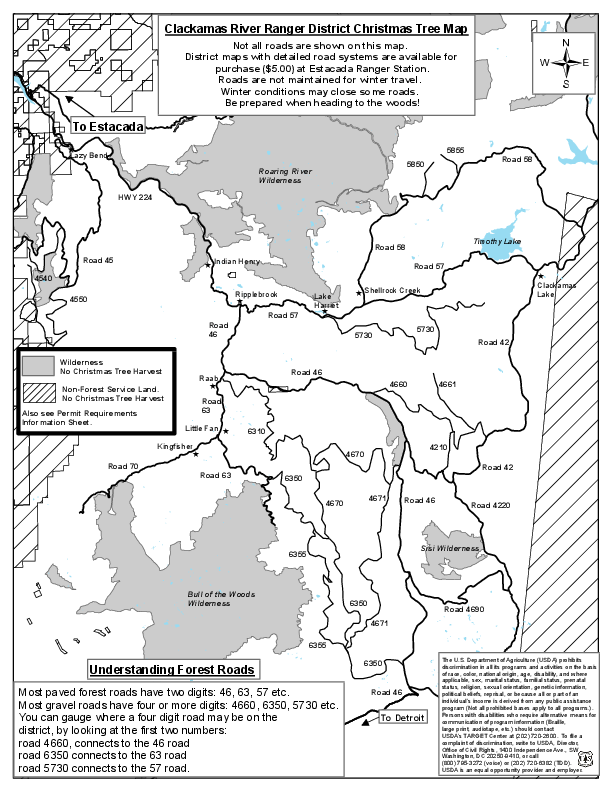
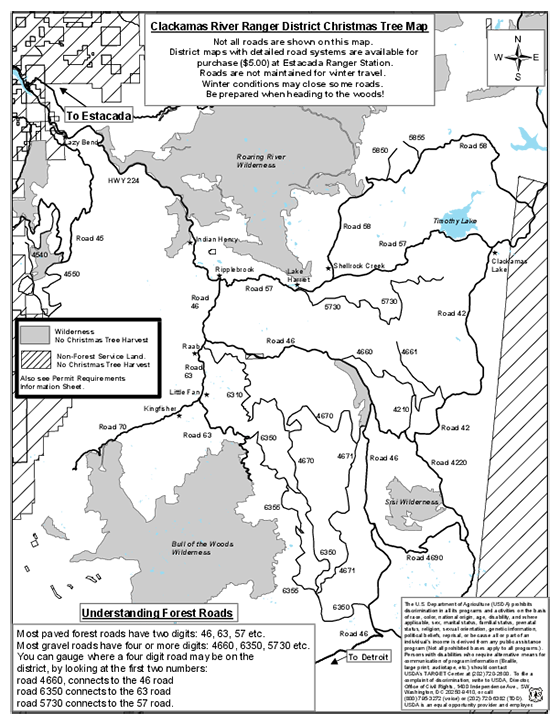
thumbnails of maps and species

diff --git a/frontend/src/app/trees/forests/tree-guidelines/tree-species/tree-species.component.html b/frontend/src/app/trees/forests/tree-guidelines/tree-species/tree-species.component.html
@@ -11,7 +11,7 @@
   <div class="usa-width-one-third">
     <figure>
       <a href="/assets/img/species/{{tree.id}}.jpg">
-        <img class="tree-img" src="/assets/img/species/{{tree.id}}.jpg" alt="{{ tree.name }}"/>
+        <img class="tree-img" src="/assets/img/species/{{tree.id}}-thumb.jpg" alt="{{ tree.name }}"/>
       </a>
       <figcaption>{{tree.name}} <span class="tree-species-credit">Photo by {{tree.photoCredits}}</span></figcaption>
     </figure>

diff --git a/frontend/src/assets/content/arp/tree-locations/allowed.md b/frontend/src/assets/content/arp/tree-locations/allowed.md
@@ -4,7 +4,7 @@ The Arapaho and Roosevelt National Forests are broken into five different geogra
 
 [Christmas tree map of **Red Feather Lakes Cutting Area** - Canyon Lakes Ranger District] (Click to view larger map)](/assets/img/maps/red-feather-map.png)
 
-[![Christmas tree map of Red Feather Cutting Area - Canyon Lakes Ranger District](/assets/img/maps/red-feather-map.png)](/assets/img/maps/red-feather-map.png)
+[![Christmas tree map of Red Feather Cutting Area - Canyon Lakes Ranger District](/assets/img/maps/red-feather-map-thumb.png)](/assets/img/maps/red-feather-map.png)
 
 [Red Feather Lakes Cutting Area map description](/christmas-trees/forests/arp/maps/red-feather-lakes)
 
@@ -14,15 +14,15 @@ The map below shows access routes to parking areas near designated tree cutting 
 
 [Christmas tree map of **Sulphur Ranger District** cutting areas(Click to view larger map)](/assets/img/maps/sulphur-map.png)
 
-[![Christmas tree map of Sulphur Ranger District Cutting Areas](/assets/img/maps/sulphur-map.png)](/assets/img/maps/sulphur-map.png)
+[![Christmas tree map of Sulphur Ranger District Cutting Areas](/assets/img/maps/sulphur-map-thumb.png)](/assets/img/maps/sulphur-map.png)
 
 [Sulphur Ranger District map description](/christmas-trees/forests/arp/maps/sulphur)
 
 [Christmas tree map of **Elk Creek Cutting Area** - Sulphur Ranger District (Click to view larger map)](/assets/img/maps/elk-creek-map.png)
 
-[![Christmas tree map of Elk Creek Cutting Area - Sulphur Ranger District](/assets/img/maps/elk-creek-map.png)](/assets/img/maps/elk-creek-map.png)
+[![Christmas tree map of Elk Creek Cutting Area - Sulphur Ranger District](/assets/img/maps/elk-creek-map-thumb.png)](/assets/img/maps/elk-creek-map.png)
 
 [Elk Creek Cutting Area map description](/christmas-trees/forests/arp/maps/elk-creek)
 
-Additional [maps and travel publications](https://www.fs.usda.gov/main/arp/maps-pubs "Arapaho and Roosevelt 
+Additional [maps and travel publications](https://www.fs.usda.gov/main/arp/maps-pubs "Arapaho and Roosevelt
     maps and publications") are available online and at ranger district offices.

diff --git a/frontend/src/assets/content/mthood/tree-locations/allowed.md b/frontend/src/assets/content/mthood/tree-locations/allowed.md
@@ -23,7 +23,7 @@ Below are Christmas tree cutting maps for the Clackamas and Zigzag Ranger distri
 
 [Zigzag Ranger District map description](christmas-trees/forests/mthood/maps/zigzag)
 
-The Hood River and Barlow Ranger Districts also allow Christmas tree cutting. Use designated motorized roads and to be aware of seasonal road closures. 
+The Hood River and Barlow Ranger Districts also allow Christmas tree cutting. Use designated motorized roads and to be aware of seasonal road closures.
 
-Additional [Maps and travel publications](https://www.fs.usda.gov/main/mthood/maps-pubs "Mt. Hood 
+Additional [Maps and travel publications](https://www.fs.usda.gov/main/mthood/maps-pubs "Mt. Hood
     maps and publications") are available online and at ranger district offices.
